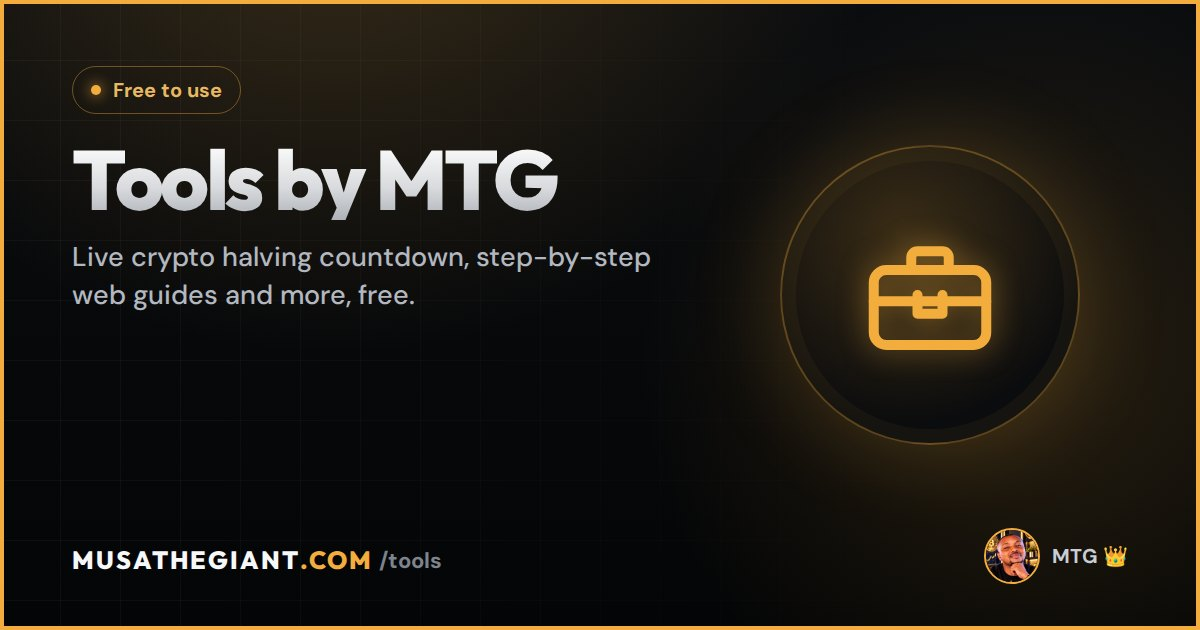
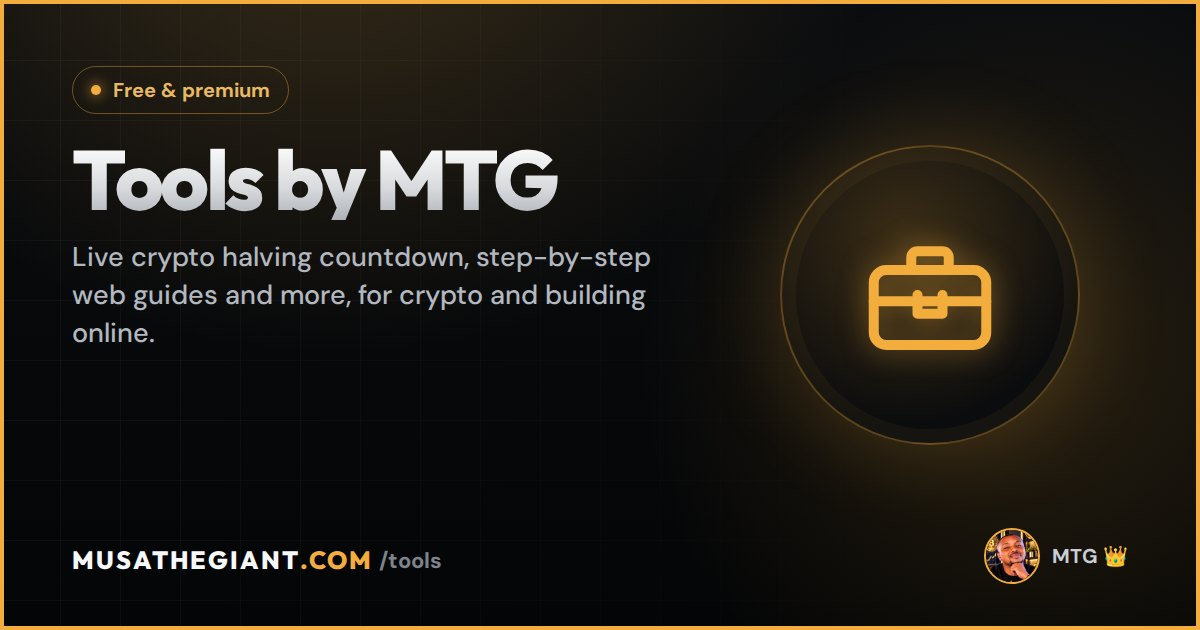
Describe tools as free and premium, label each tool's price
Claude-Session: https://claude.ai/code/session_01SorbqeF47nibMGNohJ9kgo

Changed region(s): [[0.3083, 0.4524, 0.555, 0.4825], [0.1233, 0.1206, 0.2467, 0.181], [0.0617, 0.5127, 0.1233, 0.5429]]

diff --git a/tools/index.html b/tools/index.html
@@ -2,8 +2,8 @@
 <html lang="en">
 <head>
 <meta charset="utf-8"><meta name="viewport" content="width=device-width,initial-scale=1,viewport-fit=cover">
-<title>Free Crypto &amp; Web Tools by MTG | Halving Countdown &amp; More</title>
-<meta name="description" content="Free tools from MTG (Musa The Giant): a live crypto halving countdown, a GitHub Pages custom domain guide and more practical tools for crypto and building online.">
+<title>Crypto &amp; Web Tools by MTG | Halving Countdown &amp; More</title>
+<meta name="description" content="Tools from MTG (Musa The Giant) for crypto and building online, including a live crypto halving countdown and a GitHub Pages custom domain guide. Free and premium tools.">
 <link rel="canonical" href="https://www.musathegiant.com/tools/">
 <meta name="robots" content="index,follow,max-image-preview:large">
 <meta name="author" content="Musa The Giant (MTG)">
@@ -12,7 +12,7 @@
 <meta property="og:type" content="website">
 <meta property="og:site_name" content="MTG | Musa The Giant">
 <meta property="og:title" content="Tools by MTG">
-<meta property="og:description" content="Free tools from MTG (Musa The Giant): a live crypto halving countdown, a GitHub Pages custom domain guide and more practical tools for crypto and building online.">
+<meta property="og:description" content="Tools from MTG (Musa The Giant) for crypto and building online, including a live crypto halving countdown and a GitHub Pages custom domain guide. Free and premium tools.">
 <meta property="og:url" content="https://www.musathegiant.com/tools/">
 <meta property="og:image" content="https://www.musathegiant.com/images/og-tools.jpg">
 <meta property="og:image:width" content="1200"><meta property="og:image:height" content="630">
@@ -20,7 +20,7 @@
 <meta property="og:locale" content="en_ZA">
 <meta name="twitter:card" content="summary_large_image">
 <meta name="twitter:title" content="Tools by MTG">
-<meta name="twitter:description" content="Free tools from MTG (Musa The Giant): a live crypto halving countdown, a GitHub Pages custom domain guide and more practical tools for crypto and building online.">
+<meta name="twitter:description" content="Tools from MTG (Musa The Giant) for crypto and building online, including a live crypto halving countdown and a GitHub Pages custom domain guide. Free and premium tools.">
 <meta name="twitter:image" content="https://www.musathegiant.com/images/og-tools.jpg">
 <script type="application/ld+json">
 {
@@ -31,7 +31,7 @@
    "@id": "https://www.musathegiant.com/tools/#page",
    "url": "https://www.musathegiant.com/tools/",
    "name": "Tools",
-   "description": "Free tools from MTG (Musa The Giant): a live crypto halving countdown, a GitHub Pages custom domain guide and more practical tools for crypto and building online.",
+   "description": "Tools from MTG (Musa The Giant) for crypto and building online, including a live crypto halving countdown and a GitHub Pages custom domain guide. Free and premium tools.",
    "inLanguage": "en",
    "isPartOf": {
     "@id": "https://www.musathegiant.com/#website"
@@ -147,7 +147,7 @@
 <div class="navlinks"><a class="hide-sm" href="/about.html">About</a><a class="hide-sm" href="/tools/" aria-current="page">Tools</a><a href="/contact.html">Contact</a><a class="box" href="/dashboard.html">Dashboard</a></div></nav></header>
 <main>
 <section class="phero"><div class="beam" aria-hidden="true"></div><canvas aria-hidden="true"></canvas>
-  <div class="wrap"><div class="phero-in"><div class="kicker"><i></i>Free to use</div><h1>Tools</h1><p class="lede">Practical, free tools for crypto and building online. New ones get added here as I build them.</p><p class="meta">Last updated 1 October 2026</p></div></div></section>
+  <div class="wrap"><div class="phero-in"><div class="kicker"><i></i>Tools by MTG</div><h1>Tools</h1><p class="lede">Practical tools for crypto and building online. Some are free and some are premium, and each card shows which. New ones get added here as I build them.</p><p class="meta">Last updated 1 October 2026</p></div></div></section>
 <div class="wrap doc"><div></div>
   <article class="prose">
 <div class="tgrid">
@@ -157,7 +157,7 @@
   <p class="tname">Crypto Halving Countdown</p>
   <h2 id="know-exactly-when-the-next-halving-hits">Know exactly when the next <em>halving</em> hits.</h2>
   <p>Live countdowns to the next Bitcoin, Litecoin, Bitcoin Cash, Zcash, Bittensor, Ravencoin and Kaspa halvings, with block heights that refresh every 90 seconds.</p>
-  <div class="tfacts"><span><b>8</b> coins tracked</span><span>Updates live</span><span>Free</span></div>
+  <div class="tfacts"><span><b>Free</b></span><span><b>8</b> coins tracked</span><span>Updates live</span></div>
   <a class="tcta" href="/halving/">Open the countdown <span class="arr" aria-hidden="true">→</span></a>
 </article>
 <article class="tcard" id="github-pages">
@@ -166,7 +166,7 @@
   <p class="tname">GitHub Pages Domain Guide</p>
   <h2 id="put-your-website-online-free-on-your-own-domain">Put your website online <em>free</em>, on your own domain.</h2>
   <p>Six clear steps to host a website on GitHub Pages with your own domain name, including the exact DNS records, HTTPS and fixes for common problems.</p>
-  <div class="tfacts"><span><b>6</b> steps</span><span>Copy-ready DNS records</span><span>Free hosting</span></div>
+  <div class="tfacts"><span><b>Free</b></span><span><b>6</b> steps</span><span>Copy-ready DNS records</span></div>
   <a class="tcta" href="/github-pages-custom-domain-guide.html">Open the guide <span class="arr" aria-hidden="true">→</span></a>
 </article>
 </div>

diff --git a/terms-of-use.html b/terms-of-use.html
@@ -106,7 +106,7 @@
 <div class="wrap doc"><aside class="toc" aria-label="On this page"><p>On this page</p><ol><li><a href="#about-this-website">About this website</a></li><li><a href="#education-not-advice">Education, not advice</a></li><li><a href="#no-guarantees">No guarantees</a></li><li><a href="#third-party-platforms">Third-party platforms</a></li><li><a href="#using-the-content">Using the content</a></li><li><a href="#acceptable-use">Acceptable use</a></li><li><a href="#limitation-of-liability">Limitation of liability</a></li><li><a href="#governing-law">Governing law</a></li><li><a href="#changes">Changes</a></li><li><a href="#contact">Contact</a></li></ol></aside>
   <article class="prose">
 <h2 id="about-this-website">About this website</h2>
-<p>musathegiant.com is run by Musa The Giant (MTG), Durban, South Africa. It shares educational content about Bitcoin, cryptocurrency, AI and trading, free tools, and the income streams I personally use.</p>
+<p>musathegiant.com is run by Musa The Giant (MTG), Durban, South Africa. It shares educational content about Bitcoin, cryptocurrency, AI and trading, tools (some free, some paid), and the income streams I personally use.</p>
 <h2 id="education-not-advice">Education, not advice</h2>
 <p>Everything on this site is general information and my personal opinion. It is not financial, investment, legal or tax advice, and I am not a licensed financial adviser. Before you make a financial decision, do your own research and, where appropriate, speak to a qualified professional.</p>
 <h2 id="no-guarantees">No guarantees</h2>

diff --git a/index.html b/index.html
@@ -3,7 +3,7 @@
 <head>
 <meta charset="utf-8"><meta name="viewport" content="width=device-width,initial-scale=1,viewport-fit=cover">
 <title>MTG | Multiple Streams of Income with Bitcoin, Crypto & AI</title>
-<meta name="description" content="MTG (Musa The Giant) shares vetted Bitcoin, crypto, AI, trading and affiliate income opportunities, plus free tools like a live crypto halving countdown.">
+<meta name="description" content="MTG (Musa The Giant) shares vetted Bitcoin, crypto, AI, trading and affiliate income opportunities, plus tools like a live crypto halving countdown.">
 <link rel="icon" type="image/svg+xml" href="/favicon.svg">
 <meta name="robots" content="index,follow,max-image-preview:large">
 <link rel="canonical" href="https://www.musathegiant.com/">
@@ -73,7 +73,7 @@
    "@id": "https://www.musathegiant.com/#page",
    "url": "https://www.musathegiant.com/",
    "name": "MTG | Multiple Streams of Income with Bitcoin, Crypto & AI",
-   "description": "MTG (Musa The Giant) shares vetted Bitcoin, crypto, AI, trading and affiliate income opportunities, plus free tools like a live crypto halving countdown.",
+   "description": "MTG (Musa The Giant) shares vetted Bitcoin, crypto, AI, trading and affiliate income opportunities, plus tools like a live crypto halving countdown.",
    "isPartOf": {
     "@id": "https://www.musathegiant.com/#website"
    },

diff --git a/about.html b/about.html
@@ -118,7 +118,7 @@
 <h2 id="what-i-share">What I share</h2>
 <div class="cards">
  <div class="card"><h3>Income streams</h3><p>The opportunities I’m currently using, each with a clear explanation of how it works. <a href="/dashboard.html">Open the dashboard</a>.</p></div>
- <div class="card"><h3>Free tools</h3><p>Practical tools like the live <a href="/halving/">crypto halving countdown</a> for Bitcoin, Litecoin, Bittensor and more.</p></div>
+ <div class="card"><h3>Tools</h3><p>Practical tools like the live <a href="/halving/">crypto halving countdown</a> for Bitcoin, Litecoin, Bittensor and more.</p></div>
  <div class="card"><h3>Education</h3><p>Plain-language videos and posts on Bitcoin, blockchain, AI and trading on <a href="https://www.youtube.com/@MusaTheGiant" target="_blank" rel="noopener">YouTube</a> and <a href="https://www.tiktok.com/@musathegiant" target="_blank" rel="noopener">TikTok</a>.</p></div>
  <div class="card"><h3>Guides</h3><p>Step-by-step how-tos, like getting your own website live free with the <a href="/github-pages-custom-domain-guide.html">GitHub Pages custom domain guide</a>.</p></div>
 </div>
